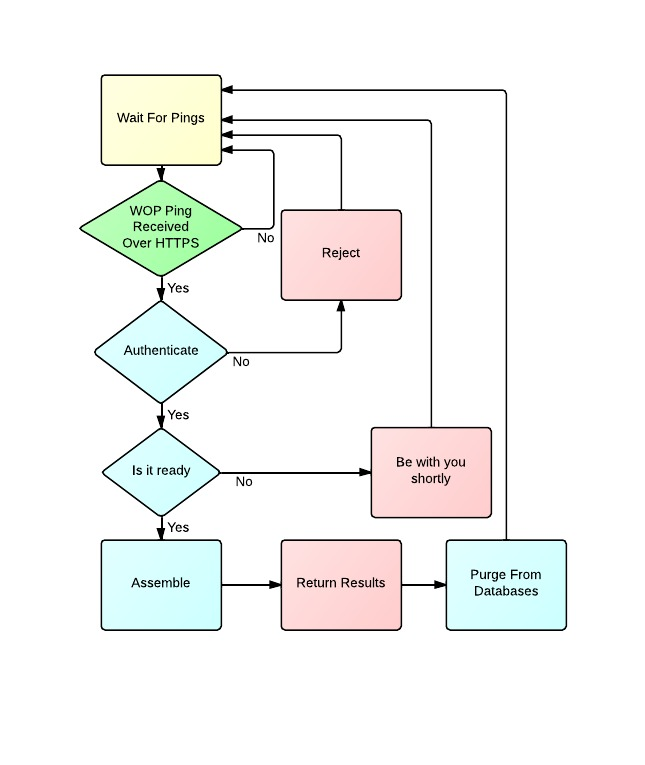
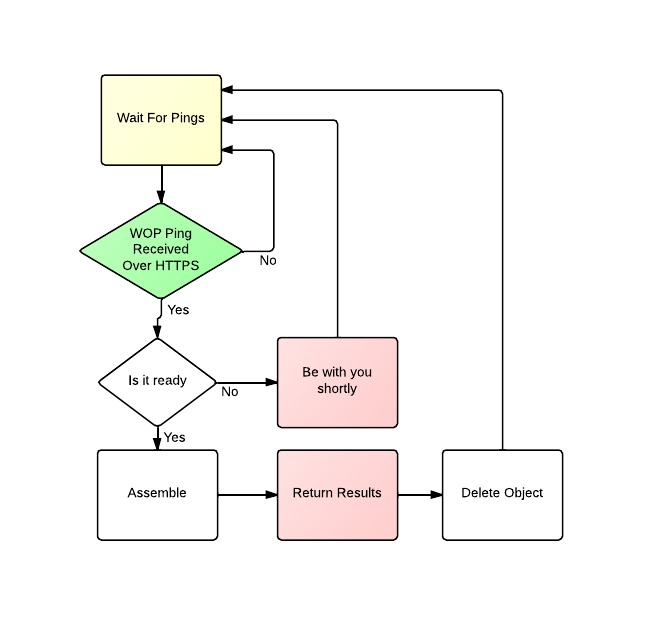
Done a skeleton for the server regards, Orla and Conor :)

Changed region(s): [[0.124, 0.0912, 0.8992, 0.8816]]

diff --git a/ClockworksDSAServer/src/org/clockworks/dsa/server/handlers/BotRequestHandler.java b/ClockworksDSAServer/src/org/clockworks/dsa/server/handlers/BotRequestHandler.java
@@ -1,0 +1,63 @@
+package org.clockworks.dsa.server.handlers;
+
+import java.io.IOException;
+
+import org.clockworks.dsa.server.environment.Environment;
+import org.clockworks.dsa.server.environment.EnvironmentSegment;
+import org.clockworks.dsa.server.pings.RTPPing;
+import org.clockworks.dsa.server.singletons.CodeQueue;
+import org.clockworks.dsa.server.singletons.EnvironmentList;
+import org.clockworks.dsa.server.singletons.PingQueue;
+
+import com.sun.net.httpserver.HttpExchange;
+import com.sun.net.httpserver.HttpHandler;
+
+public class BotRequestHandler implements HttpHandler {
+
+	@Override
+	public void handle(HttpExchange request) throws IOException {
+		// if rtpPing
+		{
+			//if contains results i.e. POST
+			{
+				// Cancel process timer
+				// log results to environment
+				Object results = null;
+				int environmentId = -3928282;
+				int segmentId = -2282920;
+				//// TODO: variables
+				
+				Environment e = EnvironmentList.sharedInstance().getEnvironmentById(environmentId);
+				if(e==null){
+					System.out.println("404: Environment Not Found"); 
+				}
+				int statusCode = e.completeSegmentWithResults(results, segmentId);
+
+				if(statusCode==404){
+					System.out.println("404: Segment Not Found");
+				}else if(statusCode==409){
+					System.out.println("409: Clash of results");
+				}
+			}
+			//queue ping
+			PingQueue.sharedInstance().addToQueue(new RTPPing(request));
+			if(CodeQueue.sharedInstance().isEmpty()){
+				// respond 204
+			}else{
+				
+				// get from code queue
+				EnvironmentSegment seg = CodeQueue.sharedInstance().popFromQueue();
+				// package into unified object
+				Object objectToSend = seg.getUnifiedFile();
+				// respond
+				// instantiate timer 
+				// respond 200
+			}
+		}
+		// else
+		{
+			// Reset Process timer
+		}
+	}
+
+}

diff --git a/ClockworksDSAServer/src/org/clockworks/dsa/server/Main.java b/ClockworksDSAServer/src/org/clockworks/dsa/server/Main.java
@@ -1,0 +1,31 @@
+package org.clockworks.dsa.server;
+
+import java.io.IOException;
+import java.net.InetSocketAddress;
+import java.util.concurrent.Executors;
+
+import org.clockworks.dsa.server.handlers.BotRequestHandler;
+import org.clockworks.dsa.server.handlers.EnvironmentHandler;
+import org.clockworks.dsa.server.handlers.ResultAssemblyHandler;
+
+import com.sun.net.httpserver.HttpServer;
+
+public class Main {
+
+	/**
+	 * @param args
+	 * @throws IOException 
+	 */
+	public static void main(String[] args) throws IOException {
+		InetSocketAddress addr = new InetSocketAddress(50080);
+	    HttpServer server = HttpServer.create(addr, 1000);
+
+	    server.createContext("/botrequesthandler", new BotRequestHandler());
+	    server.createContext("/resultassemblyhandler", new ResultAssemblyHandler());
+	    server.createContext("/environmenthandler", new EnvironmentHandler());
+	    server.setExecutor(Executors.newCachedThreadPool());
+	    server.start();
+	    System.out.println("Server is listening on port 50080" );
+	}
+
+}

diff --git a/ClockworksDSAServer/src/org/clockworks/dsa/server/handlers/ResultAssemblyHandler.java b/ClockworksDSAServer/src/org/clockworks/dsa/server/handlers/ResultAssemblyHandler.java
@@ -1,0 +1,33 @@
+package org.clockworks.dsa.server.handlers;
+
+import java.io.IOException;
+
+import org.clockworks.dsa.server.environment.Environment;
+import org.clockworks.dsa.server.singletons.EnvironmentList;
+
+import com.sun.net.httpserver.HttpExchange;
+import com.sun.net.httpserver.HttpHandler;
+
+public class ResultAssemblyHandler implements HttpHandler {
+
+
+	@Override
+	public void handle(HttpExchange ping) throws IOException {
+		// TODO: get the environment id from the WOPPing
+		int environmentId = -321364540;
+		Environment environment = EnvironmentList.sharedInstance().getEnvironmentById(environmentId);
+		if(environment==null){
+			// 404 response not found
+		}else{
+			Object results = environment.returnAssembledResult();
+			if(results==null){
+				// 102 process not ready
+			}else{
+				// 200 all good return the stuff
+				EnvironmentList.sharedInstance().deleteEnvironment(environment);
+			}
+		}
+		
+	}
+
+}

diff --git a/ClockworksDSAServer/src/org/clockworks/dsa/server/singletons/EnvironmentList.java b/ClockworksDSAServer/src/org/clockworks/dsa/server/singletons/EnvironmentList.java
@@ -1,0 +1,46 @@
+package org.clockworks.dsa.server.singletons;
+
+import java.util.LinkedList;
+
+import org.clockworks.dsa.server.environment.Environment;
+
+
+public class EnvironmentList {
+
+	private static EnvironmentList singleton;
+	private LinkedList<Environment> list;
+	
+	public static EnvironmentList sharedInstance(){
+		if(singleton==null){
+			singleton = new EnvironmentList();
+		}
+		return singleton;
+	}
+	
+	private EnvironmentList() {
+		list = new LinkedList<Environment>();
+	}
+	
+	synchronized public Environment getEnvironmentById(int id){
+		for(Environment e : list){
+			if(e.getId()==id){
+				return e;
+			}
+		}
+		return null;
+	}
+	
+	synchronized public boolean addEnvironment(Environment e){
+		if(getEnvironmentById(e.getId())!=null){
+			return false;
+		}else{
+			list.add(e);
+			return true;
+		}
+	}
+	
+	synchronized public boolean deleteEnvironment(Environment e){
+		return list.remove(e);
+	}
+
+}

diff --git a/ClockworksDSAServer/src/org/clockworks/dsa/server/handlers/EnvironmentHandler.java b/ClockworksDSAServer/src/org/clockworks/dsa/server/handlers/EnvironmentHandler.java
@@ -1,0 +1,29 @@
+package org.clockworks.dsa.server.handlers;
+
+import java.io.IOException;
+
+import org.clockworks.dsa.server.environment.Environment;
+import org.clockworks.dsa.server.environment.EnvironmentSegment;
+import org.clockworks.dsa.server.singletons.CodeQueue;
+import org.clockworks.dsa.server.singletons.EnvironmentList;
+
+import com.sun.net.httpserver.HttpExchange;
+import com.sun.net.httpserver.HttpHandler;
+
+public class EnvironmentHandler implements HttpHandler {
+
+	
+	@Override
+	public void handle(HttpExchange ping) throws IOException {
+		// TODO look down
+		Environment env = new Environment(null,null);
+		// TODO look up
+		EnvironmentList.sharedInstance().addEnvironment(env);
+		EnvironmentSegment[] segments = env.getSegments(0, env.getSegmentCount());
+		for(EnvironmentSegment s : segments){
+			CodeQueue.sharedInstance().addToQueue(s);
+		}
+		// TODO respond to user with response
+	}
+
+}

diff --git a/ClockworksDSAServer/src/org/clockworks/dsa/server/environment/Environment.java b/ClockworksDSAServer/src/org/clockworks/dsa/server/environment/Environment.java
@@ -29,13 +29,17 @@ public class Environment {
 		return Arrays.copyOfRange(segments, first, last);
 	}
 	
-	public boolean completeSegmentWithResults(Object results, int id){
+	public int completeSegmentWithResults(Object results, int id){
 		for(int i= 0; i<segments.length; i++){
 			if(segments[i].getId()==id){
 				return segments[i].insertResults(results);
 			}
 		}
-		return false;
+		return 400;
+	}
+	
+	public int getId(){
+		return this.id;
 	}
 	
 	private boolean isComplete(){

diff --git a/ClockworksDSAServer/src/org/clockworks/dsa/server/singletons/CodeQueue.java b/ClockworksDSAServer/src/org/clockworks/dsa/server/singletons/CodeQueue.java
@@ -9,7 +9,7 @@ import org.clockworks.dsa.server.environment.EnvironmentSegment;
  *	Classes accessing:
  *	- Environment
  */
-class CodeQueue{
+public class CodeQueue{
 	
 	private ConcurrentLinkedQueue<EnvironmentSegment> queue;
 	private static CodeQueue singleton;
@@ -44,5 +44,9 @@ class CodeQueue{
 	public EnvironmentSegment popFromQueue(){
 		return queue.poll();
 	} 
+	
+	public boolean isEmpty(){
+		return queue.isEmpty();
+	}
 
 }

diff --git a/ClockworksDSAServer/src/org/clockworks/dsa/server/environment/EnvironmentSegment.java b/ClockworksDSAServer/src/org/clockworks/dsa/server/environment/EnvironmentSegment.java
@@ -21,12 +21,12 @@ public class EnvironmentSegment {
 		return null;
 	}
 	
-	public boolean insertResults(Object results){
+	public int insertResults(Object results){
 		if(this.results!=null){
-			return false;
+			return 409;
 		}else{
 			this.results = results;
-			return true;
+			return 200;
 		}
 	}
 	
